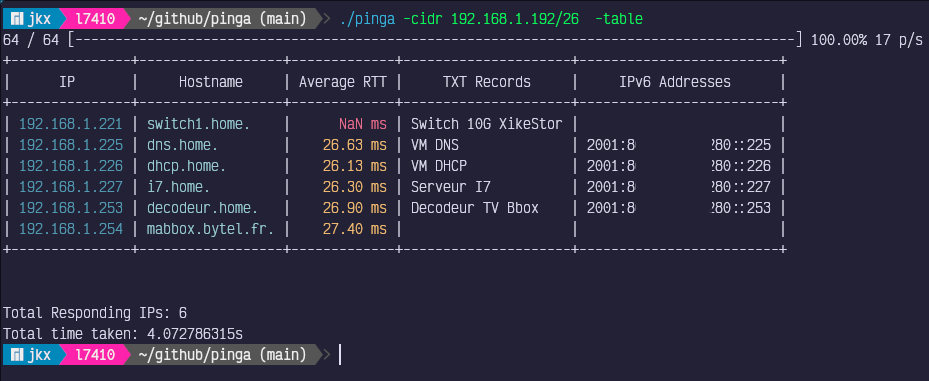
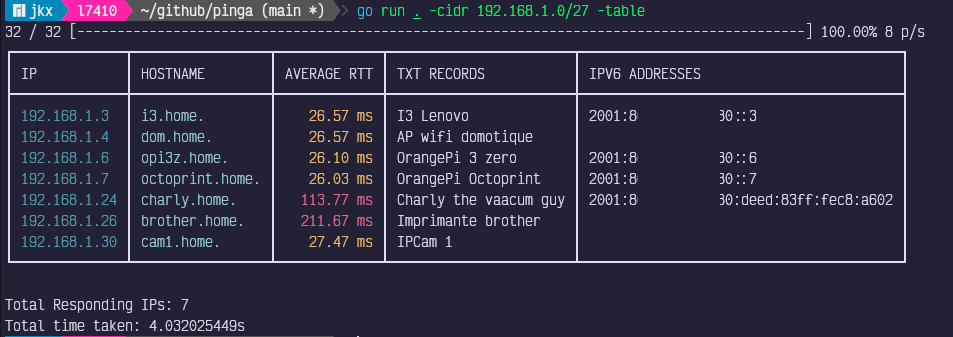
Switched to go-pretty/table

Changed region(s): [[0.0, 0.1484, 0.9677, 1.0], [0.0, 0.0, 0.9989, 0.1187], [0.0624, 0.2077, 0.0936, 0.2374]]

diff --git a/main.go b/main.go
@@ -15,7 +15,8 @@ import (
 
 	"github.com/cheggaaa/pb/v3"
 	"github.com/fatih/color"
-	"github.com/olekukonko/tablewriter"
+	"github.com/jedib0t/go-pretty/v6/table"
+	"github.com/jedib0t/go-pretty/v6/text"
 )
 
 type IPResult struct {
@@ -220,21 +221,22 @@ func main() {
 		displayListResults(results, sortedIPs)
 	}
 
-	fmt.Printf("\n\nTotal Responding IPs: %d\n", len(results))
+	fmt.Printf("\nTotal Responding IPs: %d\n", len(results))
 	fmt.Printf("Total time taken: %s\n", time.Since(startTime))
 }
 
 func displayTableResults(results map[string]IPResult, sortedIPs []string) {
-	table := tablewriter.NewWriter(os.Stdout)
-	table.SetAutoFormatHeaders(false)
-	table.SetHeader([]string{"IP", "Hostname", "Average RTT", "TXT Records", "IPv6 Addresses"})
+	t := table.NewWriter()
+	t.SetOutputMirror(os.Stdout)
+	t.SetStyle(table.StyleLight)
+	t.AppendHeader(table.Row{"IP", "Hostname", "Average RTT", "TXT Records", "IPv6 Addresses"})
 
-	table.SetColumnAlignment([]int{
-		tablewriter.ALIGN_LEFT,
-		tablewriter.ALIGN_LEFT,
-		tablewriter.ALIGN_RIGHT,
-		tablewriter.ALIGN_LEFT,
-		tablewriter.ALIGN_LEFT,
+	t.SetColumnConfigs([]table.ColumnConfig{
+		{Number: 1, Align: text.AlignLeft},
+		{Number: 2, Align: text.AlignLeft},
+		{Number: 3, Align: text.AlignRight},
+		{Number: 4, Align: text.AlignLeft},
+		{Number: 5, Align: text.AlignLeft},
 	})
 
 	for _, ip := range sortedIPs {
@@ -244,7 +246,7 @@ func displayTableResults(results map[string]IPResult, sortedIPs []string) {
 		txtRecords := strings.Join(data.TXTRecords, "\n")
 		ipv6Addresses := strings.Join(data.IPv6Addresses, "\n")
 
-		table.Append([]string{
+		t.AppendRow(table.Row{
 			color.BlueString(ip),
 			hostname,
 			averageRTT,
@@ -252,7 +254,7 @@ func displayTableResults(results map[string]IPResult, sortedIPs []string) {
 			ipv6Addresses,
 		})
 	}
-	table.Render()
+	t.Render()
 }
 
 func displayListResults(results map[string]IPResult, sortedIPs []string) {
